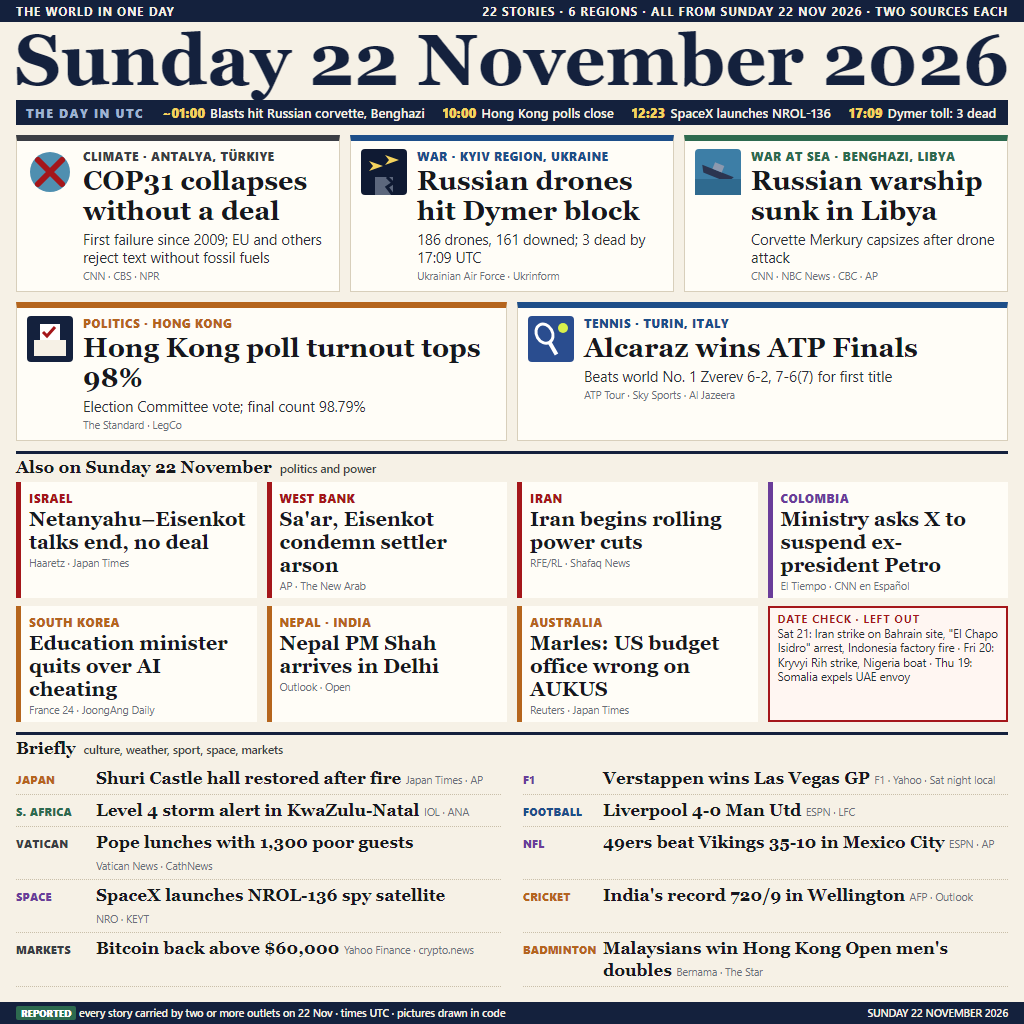
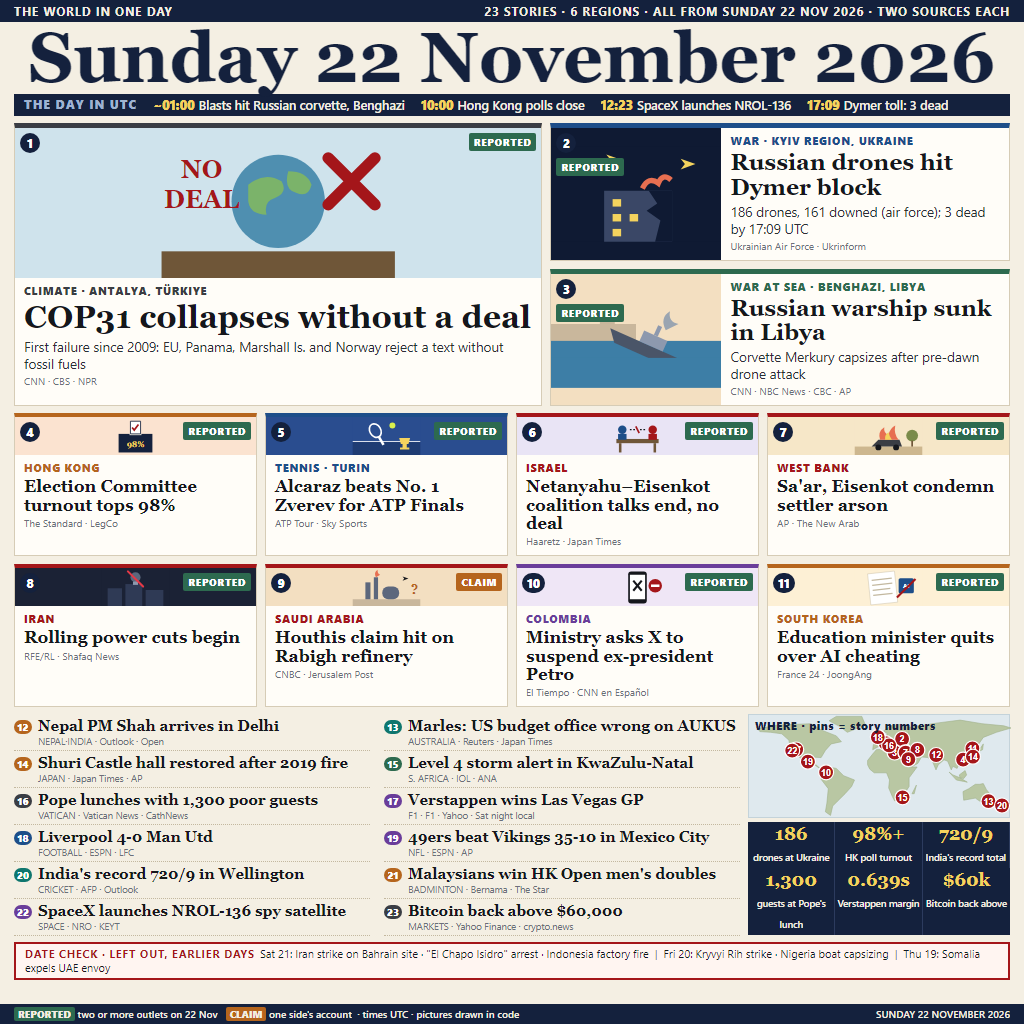
V6: illustrated hero + modules, map, indicators; 23 two-source stories (adds Houthi Rabigh claim)

diff --git a/design/page.html b/design/page.html
@@ -6,132 +6,197 @@
 <style>
   * { box-sizing: border-box; margin: 0; padding: 0; }
   html, body { width: 1024px; height: 1024px; overflow: hidden; }
-  body { background: #f6f1e6; color: #16181d; font-family: "Segoe UI", Arial, sans-serif; position: relative; }
-  .serif { font-family: Georgia, serif; }
+  body { background: #f4efe3; color: #15171c; font-family: "Segoe UI", Arial, sans-serif; position: relative; }
+  .g { font-family: Georgia, serif; }
+  .eu { --c: #1d4e89; } .me { --c: #a4161a; } .as { --c: #b5651d; }
+  .am { --c: #6a3d9a; } .af { --c: #2d6a4f; } .oc { --c: #0f766e; } .wd { --c: #3a3d44; }
 
-  .topbar { height: 22px; background: #14213d; color: #f6f1e6; display: flex; align-items: center;
-    justify-content: space-between; padding: 0 16px; font-size: 11.5px; font-weight: 700; letter-spacing: .1em; }
-  .date { text-align: center; font-family: Georgia, serif; font-weight: 700; font-size: 72px; line-height: 76px;
-    white-space: nowrap; color: #14213d; }
-  .utc { margin: 2px 16px 0; background: #14213d; color: #f6f1e6; display: flex; gap: 18px; align-items: center;
-    padding: 4px 10px; font-size: 13px; font-weight: 600; white-space: nowrap; }
-  .utc b { color: #f4d35e; margin-right: 5px; }
-  .utc .lab { letter-spacing: .12em; color: #9fb3d1; font-weight: 800; font-size: 12px; }
+  .top { height: 22px; background: #14213d; color: #f4efe3; display: flex; justify-content: space-between; align-items: center;
+    padding: 0 14px; font-size: 11.5px; font-weight: 700; letter-spacing: .1em; }
+  .date { text-align: center; font-family: Georgia, serif; font-weight: 700; color: #14213d; white-space: nowrap;
+    font-size: 70px; line-height: 72px; }
+  .utc { margin: 0 14px; background: #14213d; color: #f4efe3; display: flex; gap: 16px; padding: 3px 10px;
+    font-size: 12.5px; font-weight: 600; white-space: nowrap; }
+  .utc .l { color: #9fb3d1; letter-spacing: .12em; font-weight: 800; font-size: 11.5px; }
+  .utc b { color: #f4d35e; margin-right: 4px; }
 
-  /* lead stories */
-  .leads { display: grid; grid-template-columns: repeat(6, 1fr); gap: 10px; margin: 10px 16px 0; }
-  .lead { grid-column: span 2; background: #fffdf7; border: 1px solid #d8cfbb; border-top: 6px solid currentColor;
-    padding: 8px 10px 8px; display: flex; gap: 10px; }
-  .lead.w { grid-column: span 3; }
-  .ico { flex: none; width: 46px; height: 46px; }
-  .lead .t { flex: 1; min-width: 0; }
-  .kick { font-size: 11.5px; font-weight: 800; letter-spacing: .06em; text-transform: uppercase; }
-  .lead h2 { font-family: Georgia, serif; font-size: 27px; line-height: 30px; color: #16181d; margin-top: 2px; }
-  .lead p { font-size: 14.5px; line-height: 18px; color: #2b2e35; margin-top: 4px; }
-  .src { font-size: 10.5px; color: #6b6f78; margin-top: 3px; }
+  .row { display: grid; gap: 8px; margin: 7px 14px 0; }
+  .card { background: #fffdf8; border: 1px solid #d6ccb6; position: relative; overflow: hidden; }
+  .card svg.art { display: block; width: 100%; }
+  .n { position: absolute; top: 5px; left: 5px; min-width: 20px; height: 20px; border-radius: 10px; background: #14213d; color: #fff;
+    font-size: 12px; font-weight: 800; display: flex; align-items: center; justify-content: center; padding: 0 5px; }
+  .badge { position: absolute; top: 5px; right: 5px; font-size: 10px; font-weight: 800; letter-spacing: .06em; color: #fff;
+    padding: 2px 5px; border-radius: 2px; background: #2d6a4f; }
+  .badge.claim { background: #b5651d; }
+  .txt { padding: 5px 9px 7px; }
+  .k { font-size: 11px; font-weight: 800; letter-spacing: .06em; text-transform: uppercase; color: var(--c); }
+  .card h2 { font-family: Georgia, serif; line-height: 1.08; margin-top: 2px; }
+  .card p { font-size: 13.5px; line-height: 17px; color: #2b2e35; margin-top: 3px; }
+  .s { font-size: 10px; color: #6b6f78; margin-top: 2px; }
+  .lead { border-top: 5px solid var(--c); }
+  .lead h2 { font-size: 25px; }
+  .mod { border-top: 4px solid var(--c); }
+  .mod h2 { font-size: 17px; }
+  .side .badge { right: auto; left: 5px; top: 30px; }
 
-  .eu { color: #1d4e89; } .me { color: #a4161a; } .as { color: #b5651d; }
-  .am { color: #6a3d9a; } .af { color: #2d6a4f; } .wd { color: #3a3d44; }
+  .ind { display: grid; grid-template-columns: repeat(6, 1fr); margin: 7px 14px 0; background: #14213d; color: #f4efe3; }
+  .ind div { text-align: center; padding: 3px 2px 4px; border-right: 1px solid #2c3b5e; }
+  .ind div:last-child { border-right: 0; }
+  .ind b { display: block; font-family: Georgia, serif; font-size: 22px; line-height: 24px; color: #f4d35e; }
+  .ind span { font-size: 10.5px; font-weight: 600; }
 
-  .sec { margin: 10px 16px 0; border-top: 3px solid #14213d; padding-top: 3px; font-family: Georgia, serif;
-    font-weight: 700; font-size: 17px; }
-  .sec span { font-family: "Segoe UI", Arial, sans-serif; font-weight: 600; font-size: 11.5px; color: #3a3d44; margin-left: 8px; }
-
-  /* second tier */
-  .mid { display: grid; grid-template-columns: repeat(4, 1fr); gap: 8px 10px; margin: 5px 16px 0; }
-  .m { background: #fffdf7; border-left: 5px solid currentColor; padding: 4px 8px 5px; }
-  .m b { display: block; font-family: Georgia, serif; font-size: 20px; line-height: 23px; color: #16181d; margin-top: 1px; }
-  .m em { display: block; font-style: normal; font-size: 10.5px; color: #6b6f78; margin-top: 2px; }
-  .check { background: #fff6f2; border: 2px solid #a4161a; padding: 4px 8px; font-size: 11.5px; line-height: 14.5px; color: #2b2e35; }
-  .check b.t { display: block; color: #a4161a; font-size: 11px; letter-spacing: .08em; }
-
-  /* briefs */
-  .briefs { display: grid; grid-template-columns: 1fr 1fr; gap: 0 22px; margin: 5px 16px 0; }
-  .bf { display: flex; align-items: baseline; gap: 8px; border-bottom: 1px dotted #c9bfa9; padding: 4px 0 5px; }
-  .bf i { flex: none; width: 72px; font-style: normal; font-weight: 800; font-size: 10.5px; letter-spacing: .05em; }
-  .bf span { flex: 1; }
-  .bf b { font-family: Georgia, serif; font-size: 17px; line-height: 21px; }
-  .bf em { font-style: normal; font-size: 10.5px; color: #6b6f78; white-space: nowrap; }
-
-  .foot { position: absolute; left: 0; right: 0; bottom: 0; height: 22px; background: #14213d; color: #f6f1e6;
-    display: flex; align-items: center; justify-content: space-between; padding: 0 16px; font-size: 10.5px; font-weight: 600; }
-  .foot .k { padding: 1px 5px; border-radius: 2px; font-weight: 800; font-size: 9.5px; color: #fff; background: #2d6a4f; }
+  .notes { display: grid; gap: 0 14px; }
+  .nt { display: flex; gap: 6px; align-items: flex-start; border-bottom: 1px dotted #c3b89f; padding: 3px 0 3px; }
+  .nt i { flex: none; font-style: normal; font-size: 10px; font-weight: 800; color: #fff; background: var(--c);
+    border-radius: 8px; min-width: 18px; text-align: center; padding: 0 3px; margin-top: 3px; }
+  .nt b { display: block; font-family: Georgia, serif; font-size: 15px; line-height: 18px; }
+  .nt em { display: block; font-style: normal; font-size: 9.5px; line-height: 12px; color: #6b6f78; white-space: nowrap; }
+  .map { background: #dfe9ee; border: 1px solid #c4d3da; position: relative; }
+  .map .cap { position: absolute; left: 6px; top: 4px; font-size: 10.5px; font-weight: 800; letter-spacing: .08em; color: #14213d; }
+  .check { margin: 6px 14px 0; border: 2px solid #a4161a; background: #fff5f1; padding: 3px 9px; font-size: 11px; line-height: 14px; }
+  .check b { color: #a4161a; letter-spacing: .07em; margin-right: 5px; }
+  .foot { position: absolute; left: 0; right: 0; bottom: 0; height: 20px; background: #14213d; color: #f4efe3; display: flex;
+    justify-content: space-between; align-items: center; padding: 0 14px; font-size: 10px; font-weight: 600; }
+  .foot .bd { background: #2d6a4f; padding: 0 4px; border-radius: 2px; font-weight: 800; }
+  .foot .bd.claim { background: #b5651d; }
 </style>
 </head>
 <body>
-  <div class="topbar"><span>THE WORLD IN ONE DAY</span><span>22 STORIES · 6 REGIONS · ALL FROM SUNDAY 22 NOV 2026 · TWO SOURCES EACH</span></div>
+<script>
+// Every story below was checked against two outlets for Sunday 22 November 2026 (UTC); see the commit history.
+const LEADS = [
+  { r: 'wd', k: 'Climate · Antalya, Türkiye', h: 'COP31 collapses without a deal', d: 'First failure since 2009: EU, Panama, Marshall Is. and Norway reject a text without fossil fuels', s: 'CNN · CBS · NPR', art: 'cop', at: [30.7, 36.9] },
+  { r: 'eu', k: 'War · Kyiv region, Ukraine', h: 'Russian drones hit Dymer block', d: '186 drones, 161 downed (air force); 3 dead by 17:09 UTC', s: 'Ukrainian Air Force · Ukrinform', art: 'drones', at: [30.3, 50.8] },
+  { r: 'af', k: 'War at sea · Benghazi, Libya', h: 'Russian warship sunk in Libya', d: 'Corvette Merkury capsizes after pre-dawn drone attack', s: 'CNN · NBC News · CBC · AP', art: 'ship', at: [20.1, 32.1] },
+];
+const MODS = [
+  { r: 'as', k: 'Hong Kong', h: 'Election Committee turnout tops 98%', s: 'The Standard · LegCo', art: 'ballot', at: [114.2, 22.3] },
+  { r: 'eu', k: 'Tennis · Turin', h: 'Alcaraz beats No. 1 Zverev for ATP Finals', s: 'ATP Tour · Sky Sports', art: 'tennis', at: [7.7, 45.1] },
+  { r: 'me', k: 'Israel', h: 'Netanyahu–Eisenkot coalition talks end, no deal', s: 'Haaretz · Japan Times', art: 'talks', at: [34.8, 32.2] },
+  { r: 'me', k: 'West Bank', h: "Sa'ar, Eisenkot condemn settler arson", s: 'AP · The New Arab', art: 'arson', at: [35.2, 31.9] },
+  { r: 'me', k: 'Iran', h: 'Rolling power cuts begin', s: 'RFE/RL · Shafaq News', art: 'power', at: [51.4, 35.7] },
+  { r: 'me', k: 'Saudi Arabia', h: 'Houthis claim hit on Rabigh refinery', s: 'CNBC · Jerusalem Post', art: 'refinery', claim: true, at: [39.0, 22.8] },
+  { r: 'am', k: 'Colombia', h: 'Ministry asks X to suspend ex-president Petro', s: 'El Tiempo · CNN en Español', art: 'phone', at: [-74.1, 4.7] },
+  { r: 'as', k: 'South Korea', h: 'Education minister quits over AI cheating', s: 'France 24 · JoongAng', art: 'exam', at: [127.0, 37.6] },
+];
+const NOTES = [
+  { r: 'as', k: 'NEPAL·INDIA', h: 'Nepal PM Shah arrives in Delhi', s: 'Outlook · Open', at: [77.2, 28.6] },
+  { r: 'oc', k: 'AUSTRALIA', h: 'Marles: US budget office wrong on AUKUS', s: 'Reuters · Japan Times', at: [149.1, -35.3] },
+  { r: 'as', k: 'JAPAN', h: 'Shuri Castle hall restored after 2019 fire', s: 'Japan Times · AP', at: [127.7, 26.2] },
+  { r: 'af', k: 'S. AFRICA', h: 'Level 4 storm alert in KwaZulu-Natal', s: 'IOL · ANA', at: [31.0, -29.9] },
+  { r: 'wd', k: 'VATICAN', h: 'Pope lunches with 1,300 poor guests', s: 'Vatican News · CathNews', at: [12.5, 41.9] },
+  { r: 'am', k: 'F1', h: 'Verstappen wins Las Vegas GP', s: 'F1 · Yahoo · Sat night local', at: [-115.2, 36.2] },
+  { r: 'eu', k: 'FOOTBALL', h: 'Liverpool 4-0 Man Utd', s: 'ESPN · LFC', at: [-3.0, 53.4] },
+  { r: 'am', k: 'NFL', h: '49ers beat Vikings 35-10 in Mexico City', s: 'ESPN · AP', at: [-99.1, 19.4] },
+  { r: 'oc', k: 'CRICKET', h: "India's record 720/9 in Wellington", s: 'AFP · Outlook', at: [174.8, -41.3] },
+  { r: 'as', k: 'BADMINTON', h: "Malaysians win HK Open men's doubles", s: 'Bernama · The Star', at: null },
+  { r: 'am', k: 'SPACE', h: 'SpaceX launches NROL-136 spy satellite', s: 'NRO · KEYT', at: [-120.6, 34.7] },
+  { r: 'wd', k: 'MARKETS', h: 'Bitcoin back above $60,000', s: 'Yahoo Finance · crypto.news', at: null },
+];
+const IND = [['186', 'drones at Ukraine'], ['98%+', 'HK poll turnout'], ['720/9', "India's record total"], ['1,300', "guests at Pope's lunch"], ['0.639s', 'Verstappen margin'], ['$60k', 'Bitcoin back above']];
+const UTC = [['~01:00', 'Blasts hit Russian corvette, Benghazi'], ['10:00', 'Hong Kong polls close'], ['12:23', 'SpaceX launches NROL-136'], ['17:09', 'Dymer toll: 3 dead']];
+const CHECK = 'Sat 21: Iran strike on Bahrain site · "El Chapo Isidro" arrest · Indonesia factory fire &nbsp;|&nbsp; Fri 20: Kryvyi Rih strike · Nigeria boat capsizing &nbsp;|&nbsp; Thu 19: Somalia expels UAE envoy';
+
+// Small scenes, drawn on a 160x90 canvas.
+const ART = {
+  cop: `<rect width="160" height="90" fill="#cfe3ec"/><circle cx="80" cy="44" r="28" fill="#4f8fb0"/><path d="M62 34q10-8 20-2q4 7-4 10q-7 2-5 10q-10 0-11-8z M86 26q11 0 14 8q-2 8-9 5q-8-2-5-13z" fill="#7bb36a"/><rect x="10" y="74" width="140" height="16" fill="#6f5638"/><path d="M110 18 l28 28 M138 18 l-28 28" stroke="#a4161a" stroke-width="7" stroke-linecap="round"/><text x="34" y="30" font-family="Georgia" font-weight="700" font-size="15" fill="#a4161a" text-anchor="middle">NO</text><text x="34" y="48" font-family="Georgia" font-weight="700" font-size="15" fill="#a4161a" text-anchor="middle">DEAL</text>`,
+  drones: `<rect width="160" height="90" fill="#0f1a33"/><g fill="#f4d35e"><path d="M18 14l14 5-14 5 4-5z"/><path d="M52 8l14 5-14 5 4-5z"/><path d="M122 12l14 5-14 5 4-5z"/></g><path d="M50 90v-48h64v48z" fill="#3a4766"/><g fill="#f4d35e"><rect x="58" y="50" width="8" height="7"/><rect x="58" y="64" width="8" height="7"/><rect x="58" y="78" width="8" height="7"/><rect x="74" y="64" width="8" height="7"/></g><path d="M114 42l-22 0 8 12-10 7 13 9-5 20h16z" fill="#0f1a33"/><path d="M86 40q6-12 15-5q4-10 12-3" stroke="#e76f51" stroke-width="5" fill="none"/>`,
+  ship: `<rect width="160" height="90" fill="#f3dfc1"/><rect y="0" width="160" height="30" fill="#f3dfc1"/><path d="M0 30h46v-8h14v8h20v16H0z" fill="#c9b79c"/><rect y="46" width="160" height="44" fill="#3d7ea6"/><g transform="translate(96 52) rotate(24)"><path d="M-44 0h88l-9 11h-70z" fill="#4a5568"/><rect x="-14" y="-11" width="24" height="11" fill="#8d99ae"/><rect x="-4" y="-21" width="4" height="10" fill="#8d99ae"/></g><rect y="62" width="160" height="28" fill="#3d7ea6"/><path d="M108 36q-6-12 4-18q-2 10 8 12" fill="#9aa5b1"/>`,
+  ballot: `<rect width="160" height="90" fill="#fbe3d0"/><rect x="40" y="40" width="80" height="44" fill="#14213d"/><rect x="66" y="38" width="28" height="5" fill="#f4efe3"/><path d="M68 10h24v30h-24z" fill="#fff" stroke="#14213d" stroke-width="2"/><path d="M72 25l5 6 10-13" stroke="#a4161a" stroke-width="4" fill="none"/><text x="80" y="70" text-anchor="middle" font-family="Georgia" font-weight="700" font-size="19" fill="#f4d35e">98%</text>`,
+  tennis: `<rect width="160" height="90" fill="#2a4d8f"/><rect y="58" width="160" height="32" fill="#1f3c73"/><line x1="0" y1="58" x2="160" y2="58" stroke="#fff" stroke-width="2"/><g transform="translate(58 40) rotate(-30)"><ellipse cx="0" cy="-9" rx="13" ry="17" fill="none" stroke="#fff" stroke-width="4"/><rect x="-3" y="8" width="6" height="22" fill="#fff"/></g><circle cx="94" cy="20" r="7" fill="#d9f04c"/><path d="M110 50h26l-4 14h-18z M118 64h10v8h-10z M112 72h22v5h-22z" fill="#f4d35e"/>`,
+  talks: `<rect width="160" height="90" fill="#e9e4f5"/><rect x="30" y="52" width="100" height="10" fill="#6f5638"/><rect x="36" y="62" width="6" height="22" fill="#6f5638"/><rect x="118" y="62" width="6" height="22" fill="#6f5638"/><circle cx="44" cy="30" r="10" fill="#1d4e89"/><rect x="34" y="40" width="20" height="14" fill="#1d4e89"/><circle cx="116" cy="30" r="10" fill="#a4161a"/><rect x="106" y="40" width="20" height="14" fill="#a4161a"/><path d="M62 30h12m12 0h12" stroke="#15171c" stroke-width="3" stroke-dasharray="4 4"/><path d="M76 22l8 16" stroke="#a4161a" stroke-width="4"/>`,
+  arson: `<rect width="160" height="90" fill="#f6e7c8"/><rect y="70" width="160" height="20" fill="#cdb78f"/><path d="M40 70h72l-6-16h-50z" fill="#3a3d44"/><circle cx="56" cy="72" r="7" fill="#15171c"/><circle cx="98" cy="72" r="7" fill="#15171c"/><path d="M60 54q-6-20 10-30q-2 14 10 18q4-16 16-22q-4 20 8 34z" fill="#e76f51"/><path d="M72 54q-2-12 8-18q2 10 8 18z" fill="#f4d35e"/><circle cx="136" cy="44" r="14" fill="#7a8b4a"/><rect x="134" y="56" width="4" height="14" fill="#6f5638"/>`,
+  power: `<rect width="160" height="90" fill="#1b2235"/><g fill="#2f3a55"><rect x="14" y="48" width="34" height="42"/><rect x="56" y="38" width="40" height="52"/><rect x="104" y="52" width="42" height="38"/></g><circle cx="80" cy="22" r="12" fill="#5c677d"/><rect x="74" y="32" width="12" height="8" fill="#8d99ae"/><path d="M62 8l36 36" stroke="#e63946" stroke-width="5" stroke-linecap="round"/>`,
+  refinery: `<rect width="160" height="90" fill="#f3dfc1"/><rect y="74" width="160" height="16" fill="#c9b79c"/><g fill="#5c677d"><rect x="30" y="34" width="12" height="40"/><rect x="50" y="22" width="10" height="52"/><rect x="70" y="44" width="40" height="30" rx="14"/></g><path d="M55 22q-6-12 4-18q-1 9 6 12z" fill="#e76f51"/><path d="M118 20l14 5-14 5 4-5z" fill="#15171c"/><text x="138" y="62" font-family="Georgia" font-weight="700" font-size="30" fill="#b5651d">?</text>`,
+  phone: `<rect width="160" height="90" fill="#efe6f6"/><rect x="58" y="8" width="44" height="76" rx="7" fill="#15171c"/><rect x="62" y="16" width="36" height="58" fill="#fff"/><path d="M70 30l20 24M90 30l-20 24" stroke="#15171c" stroke-width="5"/><circle cx="122" cy="42" r="16" fill="#a4161a"/><rect x="112" y="39" width="20" height="6" fill="#fff"/>`,
+  exam: `<rect width="160" height="90" fill="#fdf0d5"/><g transform="rotate(-6 70 46)"><rect x="34" y="10" width="64" height="74" fill="#fff" stroke="#c3b89f"/><g stroke="#c3b89f" stroke-width="3"><line x1="42" y1="26" x2="90" y2="26"/><line x1="42" y1="38" x2="90" y2="38"/><line x1="42" y1="50" x2="84" y2="50"/><line x1="42" y1="62" x2="88" y2="62"/></g></g><rect x="104" y="24" width="36" height="36" rx="4" fill="#1d4e89"/><text x="122" y="48" text-anchor="middle" font-family="Arial" font-weight="700" font-size="15" fill="#fff">AI</text><path d="M100 70l44-44" stroke="#a4161a" stroke-width="5"/>`,
+};
+
+// Rough continent outlines (longitude, latitude), equirectangular.
+const LAND = [
+  [[-168,65],[-140,70],[-95,72],[-80,63],[-60,55],[-53,47],[-67,44],[-75,35],[-81,25],[-97,26],[-97,17],[-88,15],[-80,8],[-90,15],[-105,20],[-117,32],[-124,40],[-125,49],[-135,58],[-150,60],[-165,61]],
+  [[-45,60],[-20,70],[-25,82],[-60,82],[-70,76],[-55,68]],
+  [[-80,9],[-72,12],[-60,10],[-50,0],[-35,-6],[-39,-15],[-48,-25],[-58,-35],[-65,-42],[-68,-55],[-75,-50],[-73,-38],[-71,-18],[-81,-5]],
+  [[-10,36],[-9,43],[-2,44],[-5,48],[2,51],[8,54],[10,58],[5,62],[15,69],[28,71],[40,67],[40,55],[30,46],[28,41],[22,37],[12,38],[8,44],[3,43]],
+  [[-5,50],[1,51],[-2,56],[-5,58],[-6,55]],
+  [[-17,15],[-17,21],[-10,30],[-5,36],[10,37],[20,32],[32,31],[35,28],[43,12],[51,12],[40,-3],[40,-15],[33,-26],[20,-35],[17,-29],[12,-17],[13,-6],[9,4],[-8,4],[-14,9]],
+  [[44,-25],[49,-15],[50,-13],[47,-25]],
+  [[28,41],[40,55],[40,67],[60,70],[80,73],[110,77],[140,72],[170,69],[180,66],[160,60],[142,53],[135,43],[122,40],[121,31],[110,20],[106,10],[100,13],[98,8],[93,20],[88,22],[80,15],[77,8],[72,20],[66,25],[57,26],[52,17],[43,12],[35,28],[35,36]],
+  [[130,31],[141,36],[142,44],[140,41],[135,34]],
+  [[95,5],[105,-6],[115,-8],[120,-9],[110,-3],[100,1]],
+  [[109,1],[117,7],[119,1],[115,-4],[110,-3]],
+  [[114,-22],[122,-18],[131,-12],[137,-12],[142,-11],[146,-19],[153,-28],[150,-37],[141,-38],[131,-31],[115,-34]],
+  [[172,-34],[178,-38],[175,-41],[168,-46],[172,-41]],
+];
+
+const all = [...LEADS, ...MODS, ...NOTES];
+all.forEach((x, i) => (x.no = i + 1));
+
+// Scenes keep their whole picture ("meet"); the band behind them takes the scene's own sky colour.
+function art(name, h) {
+  const bg = ART[name].match(/fill="([^"]+)"/)[1];
+  return `<svg class="art" viewBox="0 0 160 90" preserveAspectRatio="xMidYMid meet" style="height:${h}px;background:${bg}">${ART[name]}</svg>`;
+}
+function badge(x) { return x.claim ? '<span class="badge claim">CLAIM</span>' : '<span class="badge">REPORTED</span>'; }
+function lead(x, h, size) {
+  return `<div class="card lead ${x.r}">${art(x.art, h)}<span class="n">${x.no}</span>${badge(x)}<div class="txt"><div class="k">${x.k}</div><h2 style="font-size:${size}px">${x.h}</h2><p>${x.d}</p><div class="s">${x.s}</div></div></div>`;
+}
+function mod(x, h) {
+  return `<div class="card mod ${x.r}">${art(x.art, h)}<span class="n">${x.no}</span>${badge(x)}<div class="txt"><div class="k">${x.k}</div><h2>${x.h}</h2><div class="s">${x.s}</div></div></div>`;
+}
+function notes(cols) {
+  return `<div class="notes" style="grid-template-columns:repeat(${cols},1fr)">` + NOTES.map((x) =>
+    `<div class="nt ${x.r}"><i>${x.no}</i><span><b>${x.h}</b> <em>${x.k} · ${x.s}</em></span></div>`).join('') + '</div>';
+}
+function map(w, h, title) {
+  const px = (lon) => ((lon + 180) / 360) * w, py = (lat) => ((84 - lat) / 144) * h;
+  const land = LAND.map((p) => `<path d="M${p.map(([a, b]) => `${px(a).toFixed(1)} ${py(b).toFixed(1)}`).join('L')}Z" fill="#b9c7a3" stroke="#9fb08a" stroke-width=".6"/>`).join('');
+  const pins = all.filter((x) => x.at).map((x) => {
+    const X = Math.min(px(x.at[0]), w - 9), Y = Math.max(py(x.at[1]), 18);
+    return `<g><circle cx="${X.toFixed(1)}" cy="${Y.toFixed(1)}" r="7.5" fill="#a4161a" stroke="#fff" stroke-width="1.2"/><text x="${X.toFixed(1)}" y="${(Y + 3.4).toFixed(1)}" text-anchor="middle" font-family="Arial" font-weight="700" font-size="9" fill="#fff">${x.no}</text></g>`;
+  }).join('');
+  return `<div class="map" style="width:${w}px;height:${h}px"><svg width="${w}" height="${h}">${land}${pins}</svg><span class="cap">${title}</span></div>`;
+}
+function ind() { return '<div class="ind">' + IND.map(([a, b]) => `<div><b>${a}</b><span>${b}</span></div>`).join('') + '</div>'; }
+const head = `<div class="top"><span>THE WORLD IN ONE DAY</span><span>${all.length} STORIES · 6 REGIONS · ALL FROM SUNDAY 22 NOV 2026 · TWO SOURCES EACH</span></div>
   <div class="date">Sunday 22 November 2026</div>
-  <div class="utc"><span class="lab">THE DAY IN UTC</span>
-    <span><b>~01:00</b>Blasts hit Russian corvette, Benghazi</span>
-    <span><b>10:00</b>Hong Kong polls close</span>
-    <span><b>12:23</b>SpaceX launches NROL-136</span>
-    <span><b>17:09</b>Dymer toll: 3 dead</span>
-  </div>
+  <div class="utc"><span class="l">THE DAY IN UTC</span>${UTC.map(([t, s]) => `<span><b>${t}</b>${s}</span>`).join('')}</div>`;
+const check = `<div class="check"><b>DATE CHECK · LEFT OUT, EARLIER DAYS</b>${CHECK}</div>`;
+const foot = `<div class="foot"><span><span class="bd">REPORTED</span> two or more outlets on 22 Nov &nbsp; <span class="bd claim">CLAIM</span> one side's account &nbsp;· times UTC · pictures drawn in code</span><span>SUNDAY 22 NOVEMBER 2026</span></div>`;
 
-  <div class="leads">
-    <div class="lead wd">
-      <svg class="ico" viewBox="0 0 46 46"><circle cx="23" cy="23" r="20" fill="#4f8fb0"/><path d="M11 11 L35 35 M35 11 L11 35" stroke="#a4161a" stroke-width="6" stroke-linecap="round"/></svg>
-      <div class="t"><div class="kick">Climate · Antalya, Türkiye</div>
-        <h2>COP31 collapses without a deal</h2>
-        <p>First failure since 2009; EU and others reject text without fossil fuels</p>
-        <div class="src">CNN · CBS · NPR</div></div>
-    </div>
-    <div class="lead eu">
-      <svg class="ico" viewBox="0 0 46 46"><rect width="46" height="46" rx="4" fill="#0f1a33"/><path d="M8 12 l14 5 -14 5 4 -5z M24 6 l14 5 -14 5 4 -5z" fill="#f4d35e"/><path d="M14 46 v-18 h18 v18z" fill="#5c677d"/><path d="M26 28 l6 6 -6 4 6 8" stroke="#0f1a33" stroke-width="3" fill="none"/></svg>
-      <div class="t"><div class="kick">War · Kyiv region, Ukraine</div>
-        <h2>Russian drones hit Dymer block</h2>
-        <p>186 drones, 161 downed; 3 dead by 17:09 UTC</p>
-        <div class="src">Ukrainian Air Force · Ukrinform</div></div>
-    </div>
-    <div class="lead af">
-      <svg class="ico" viewBox="0 0 46 46"><rect width="46" height="46" rx="4" fill="#3d7ea6"/><g transform="translate(23 22) rotate(22)"><path d="M-17 0 h34 l-4 7 h-26z" fill="#2b3550"/><rect x="-6" y="-7" width="10" height="7" fill="#8d99ae"/></g><rect y="30" width="46" height="16" fill="#2f6a8f"/></svg>
-      <div class="t"><div class="kick">War at sea · Benghazi, Libya</div>
-        <h2>Russian warship sunk in Libya</h2>
-        <p>Corvette Merkury capsizes after drone attack</p>
-        <div class="src">CNN · NBC News · CBC · AP</div></div>
-    </div>
-    <div class="lead w as">
-      <svg class="ico" viewBox="0 0 46 46"><rect width="46" height="46" rx="4" fill="#14213d"/><path d="M13 8 h20 v16 h-20z" fill="#fff"/><path d="M16 16 l4 4 8 -9" stroke="#a4161a" stroke-width="3" fill="none"/><rect x="7" y="24" width="32" height="16" fill="#f6f1e6"/></svg>
-      <div class="t"><div class="kick">Politics · Hong Kong</div>
-        <h2>Hong Kong poll turnout tops 98%</h2>
-        <p>Election Committee vote; final count 98.79%</p>
-        <div class="src">The Standard · LegCo</div></div>
-    </div>
-    <div class="lead w eu">
-      <svg class="ico" viewBox="0 0 46 46"><rect width="46" height="46" rx="4" fill="#2a4d8f"/><g transform="translate(19 22) rotate(-30)"><ellipse cx="0" cy="-5" rx="8" ry="10" fill="none" stroke="#fff" stroke-width="3"/><rect x="-2" y="5" width="4" height="14" fill="#fff"/></g><circle cx="35" cy="12" r="5" fill="#d9f04c"/></svg>
-      <div class="t"><div class="kick">Tennis · Turin, Italy</div>
-        <h2>Alcaraz wins ATP Finals</h2>
-        <p>Beats world No. 1 Zverev 6-2, 7-6(7) for first title</p>
-        <div class="src">ATP Tour · Sky Sports · Al Jazeera</div></div>
-    </div>
-  </div>
+const LAYOUTS = {
+  // A: three illustrated leads, indicator bar, eight illustrated modules, map beside the briefs.
+  a() {
+    return head
+      + `<div class="row" style="grid-template-columns:repeat(3,1fr)">${LEADS.map((x) => lead(x, 66, 25)).join('')}</div>`
+      + ind()
+      + `<div class="row" style="grid-template-columns:repeat(4,1fr)">${MODS.map((x) => mod(x, 40)).join('')}</div>`
+      + `<div class="row" style="grid-template-columns:330px 1fr;align-items:start">${map(330, 186, 'WHERE IT HAPPENED · pins = story numbers')}${notes(2)}</div>`
+      + check + foot;
+  },
+  // B: one hero lead with two stacked leads, modules, briefs in three columns, map in the corner.
+  b() {
+    const side = LEADS.slice(1).map((x) => `<div class="card lead side ${x.r}" style="display:flex">${art(x.art, 120).replace('style="height:120px;', 'style="height:auto;width:170px;flex:none;')}<span class="n">${x.no}</span>${badge(x)}<div class="txt"><div class="k">${x.k}</div><h2 style="font-size:23px">${x.h}</h2><p>${x.d}</p><div class="s">${x.s}</div></div></div>`).join('');
+    return head
+      + `<div class="row" style="grid-template-columns:1.15fr 1fr">${lead(LEADS[0], 150, 32)}<div style="display:grid;gap:8px">${side}</div></div>`
+      + `<div class="row" style="grid-template-columns:repeat(4,1fr)">${MODS.map((x) => mod(x, 38)).join('')}</div>`
+      + `<div class="row" style="grid-template-columns:1fr 262px;align-items:start">${notes(2)}<div>${map(262, 104, 'WHERE · pins = story numbers')}`
+      + `<div class="ind" style="margin:4px 0 0;grid-template-columns:1fr 1fr 1fr">${IND.map(([a, b]) => `<div style="padding:2px 1px 3px"><b style="font-size:18px;line-height:20px">${a}</b><span style="font-size:9.5px">${b}</span></div>`).join('')}</div></div></div>`
+      + check + foot;
+  },
+  // C: the map leads, with indicators; then leads, modules and briefs keyed to its pins.
+  c() {
+    return head
+      + `<div class="row" style="grid-template-columns:1fr 230px">${map(756, 168, 'WHERE IT HAPPENED · pins = story numbers')}<div class="ind" style="margin:0;grid-template-columns:1fr 1fr;height:168px">${IND.map(([a, b]) => `<div style="padding-top:6px"><b>${a}</b><span>${b}</span></div>`).join('')}</div></div>`
+      + `<div class="row" style="grid-template-columns:repeat(3,1fr)">${LEADS.map((x) => lead(x, 50, 23)).join('')}</div>`
+      + `<div class="row" style="grid-template-columns:repeat(4,1fr)">${MODS.map((x) => mod(x, 32)).join('')}</div>`
+      + `<div class="row">${notes(3)}</div>`
+      + check + foot;
+  },
+};
 
-  <div class="sec">Also on Sunday 22 November<span>politics and power</span></div>
-  <div class="mid">
-    <div class="m me"><span class="kick">Israel</span><b>Netanyahu–Eisenkot talks end, no deal</b><em>Haaretz · Japan Times</em></div>
-    <div class="m me"><span class="kick">West Bank</span><b>Sa'ar, Eisenkot condemn settler arson</b><em>AP · The New Arab</em></div>
-    <div class="m me"><span class="kick">Iran</span><b>Iran begins rolling power cuts</b><em>RFE/RL · Shafaq News</em></div>
-    <div class="m am"><span class="kick">Colombia</span><b>Ministry asks X to suspend ex-president Petro</b><em>El Tiempo · CNN en Español</em></div>
-    <div class="m as"><span class="kick">South Korea</span><b>Education minister quits over AI cheating</b><em>France 24 · JoongAng Daily</em></div>
-    <div class="m as"><span class="kick">Nepal · India</span><b>Nepal PM Shah arrives in Delhi</b><em>Outlook · Open</em></div>
-    <div class="m as"><span class="kick">Australia</span><b>Marles: US budget office wrong on AUKUS</b><em>Reuters · Japan Times</em></div>
-    <div class="check"><b class="t">DATE CHECK · LEFT OUT</b>Sat 21: Iran strike on Bahrain site, "El Chapo Isidro" arrest, Indonesia factory fire · Fri 20: Kryvyi Rih strike, Nigeria boat · Thu 19: Somalia expels UAE envoy</div>
-  </div>
-
-  <div class="sec">Briefly<span>culture, weather, sport, space, markets</span></div>
-  <div class="briefs">
-    <div class="bf"><i class="as">JAPAN</i><span><b>Shuri Castle hall restored after fire</b> <em>Japan Times · AP</em></span></div>
-    <div class="bf"><i class="am">F1</i><span><b>Verstappen wins Las Vegas GP</b> <em>F1 · Yahoo · Sat night local</em></span></div>
-    <div class="bf"><i class="af">S. AFRICA</i><span><b>Level 4 storm alert in KwaZulu-Natal</b> <em>IOL · ANA</em></span></div>
-    <div class="bf"><i class="eu">FOOTBALL</i><span><b>Liverpool 4-0 Man Utd</b> <em>ESPN · LFC</em></span></div>
-    <div class="bf"><i class="wd">VATICAN</i><span><b>Pope lunches with 1,300 poor guests</b> <em>Vatican News · CathNews</em></span></div>
-    <div class="bf"><i class="am">NFL</i><span><b>49ers beat Vikings 35-10 in Mexico City</b> <em>ESPN · AP</em></span></div>
-    <div class="bf"><i class="am">SPACE</i><span><b>SpaceX launches NROL-136 spy satellite</b> <em>NRO · KEYT</em></span></div>
-    <div class="bf"><i class="as">CRICKET</i><span><b>India's record 720/9 in Wellington</b> <em>AFP · Outlook</em></span></div>
-    <div class="bf"><i class="wd">MARKETS</i><span><b>Bitcoin back above $60,000</b> <em>Yahoo Finance · crypto.news</em></span></div>
-    <div class="bf"><i class="as">BADMINTON</i><span><b>Malaysians win Hong Kong Open men's doubles</b> <em>Bernama · The Star</em></span></div>
-  </div>
-
-  <div class="foot"><span><span class="k">REPORTED</span> every story carried by two or more outlets on 22 Nov · times UTC · pictures drawn in code</span><span>SUNDAY 22 NOVEMBER 2026</span></div>
+const pick = new URLSearchParams(location.search).get('layout') || 'b';
+document.body.insertAdjacentHTML('beforeend', (LAYOUTS[pick] || LAYOUTS.b)());
+</script>
 </body>
 </html>
